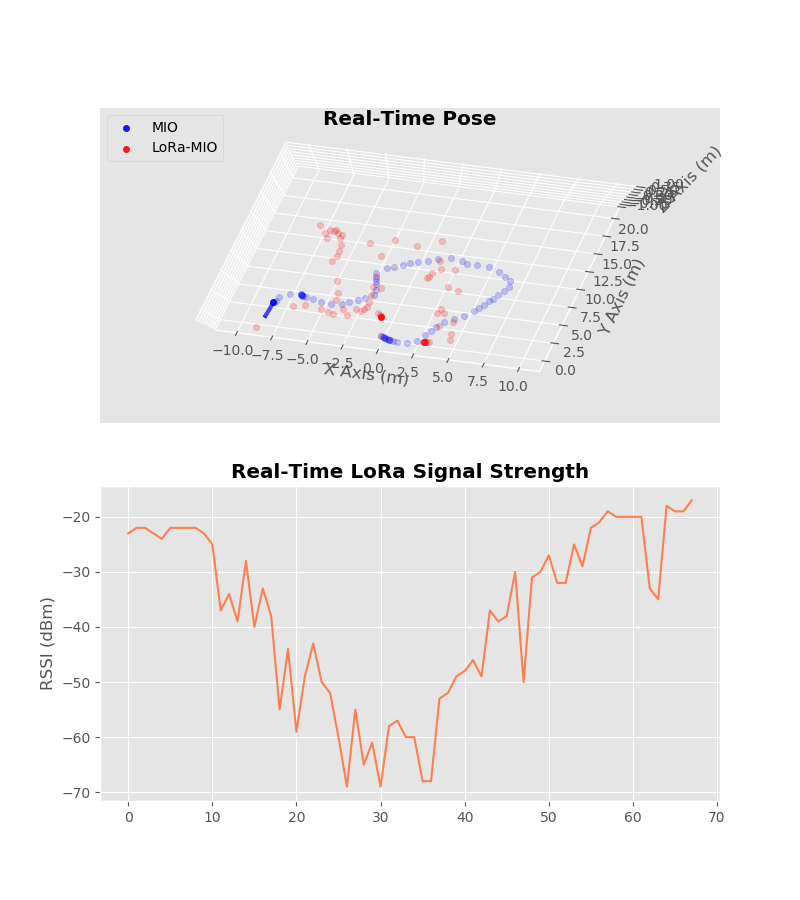
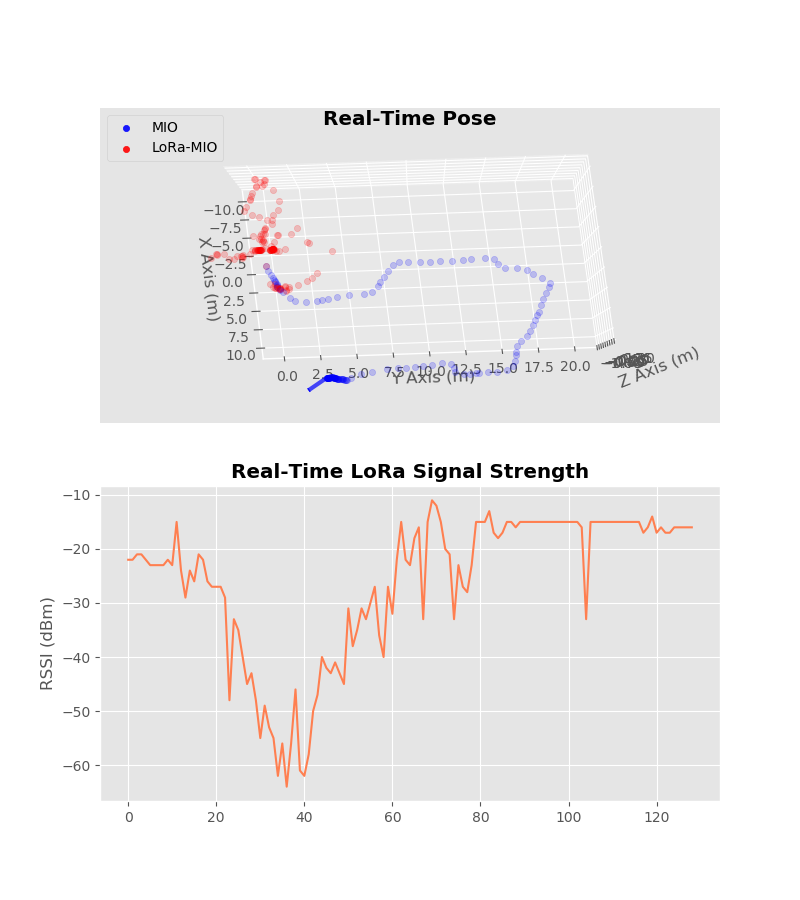
Tweeked left-hand search

diff --git a/replay.py b/replay.py
@@ -87,7 +87,7 @@ class EKF_Fusion_MultiRX_ZYaw(EKF_Fusion):
         self.anchor = anchor
         super().__init__(dim_z=3+self.anchor, dt=dt, visual=visual)
         # TWEEK PARAMS
-        self.my_kf.x = np.array([0., 0., 0., 0.3]).reshape(-1, 1)
+        self.my_kf.x = np.array([0., 0., 0., 0.2]).reshape(-1, 1)
         # Error Cov of Initial State
         self.my_kf.Q = np.diag(np.array([.01, .01, 1.0, 1.0]))
         # Process Noise Cov
@@ -117,7 +117,7 @@ class EKF_Fusion_MultiRX_ZYaw(EKF_Fusion):
             self.my_kf.R[0, 0] = 10.#self.sigma_list[-g][0]**2
             self.my_kf.R[1, 1] = 10.#self.sigma_list[-g][1]**2
             self.my_kf.R[2, 2] = 0.01#self.sigma_list[-g][5]**2 # Sigma of rot_z or Yaw
-            self.my_kf.R[3, 3] = 5*SIGMA**2
+            self.my_kf.R[3, 3] = 10*SIGMA**2
             # Refresh State Transition Martrix: F
             self.my_kf.F = eye(4) + array([[0, 0, -self.dt * self.my_kf.x[3, 0] * math.sin(self.my_kf.x[2, 0]), self.dt * math.cos(self.my_kf.x[2, 0])],
                                   [0, 0, self.dt * self.my_kf.x[3, 0] * math.cos(self.my_kf.x[2, 0]), self.dt * math.sin(self.my_kf.x[2, 0])],

diff --git a/README.md b/README.md
@@ -1,13 +1,15 @@
 ## Commander's LoRa RX: Location Log & Visualisation
 
-Run live message reception in a pack of 10 Odometry outputs by
+Run Replayed data reception in a pack of 10 Odometry outputs by
 
 ```
 python3 rx_lora.py P2P 10
 ```
 
+Right-Hand Search:
+
 ![live_plot](https://github.com/zdai257/LoRaRX/blob/main/demo1.png)
 
-EKF simulation result:
+Left-Hand Search:
 
 ![sim_ekf_plot](https://github.com/zdai257/LoRaRX/blob/main/demo2.png)
